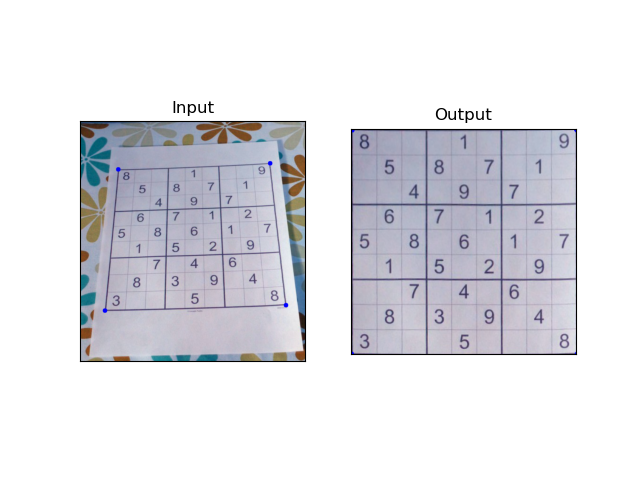
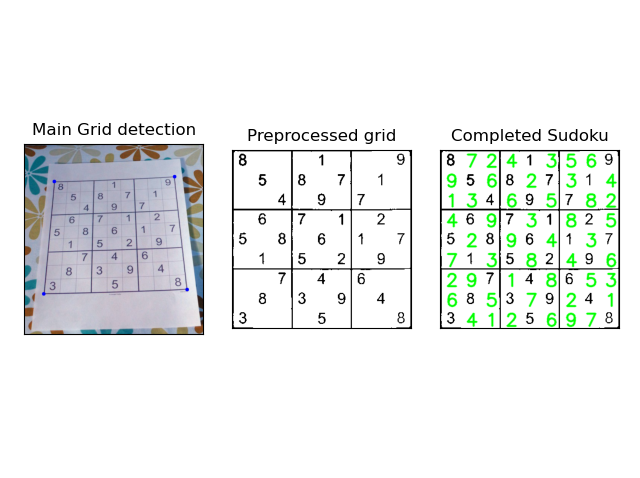
Add display solved sudoku picture

diff --git a/lib/launcher.py b/lib/launcher.py
@@ -8,17 +8,19 @@ import matplotlib.pyplot as plt
 import cv2 as cv
 
 from analyzer import picture_processing
-from solver import print_board, sudoku_solver
+from solver import display_solved_picture
 from predict import predict_digit, load_checkpoint
 from train import Net
 
 
 def solver(path, debug=False):
     IMG = cv.imread(path)
-    SQUARES = picture_processing(IMG, plot=debug)
+    SQUARES, PIC_PP, IMG = picture_processing(IMG, plot=debug)
     MODEL = load_checkpoint('../results/model.pth')
     digits = [predict_digit(el, MODEL) for el in SQUARES]
-
+    board = np.resize(np.array(digits), (9, 9))
+    filled_sudoku = display_solved_picture(PIC_PP, board)
+    
     if debug:
         fig = plt.figure(figsize=(13, 13))
         ax = []
@@ -28,10 +30,17 @@ def solver(path, debug=False):
             plt.imshow(SQUARES[i], alpha=0.25)
             plt.axis('off')
         plt.show()
-
-    board = np.resize(np.array(digits), (9, 9))
-    print_board(board)
-    print_board(sudoku_solver(board))
+        
+        plt.subplot(131), plt.imshow(IMG), plt.title('Main Grid detection')
+        plt.xticks([]), plt.yticks([])
+        plt.subplot(132), plt.imshow(PIC_PP, cmap='gray'), plt.title('Preprocessed grid')
+        plt.xticks([]), plt.yticks([])
+        plt.subplot(133), plt.imshow(filled_sudoku), plt.title('Completed Sudoku')
+        plt.xticks([]), plt.yticks([])
+        plt.show()
+        
+    plt.imshow(filled_sudoku)
+    plt.show()    
 
 
 if __name__ == "__main__":

diff --git a/lib/solver.py b/lib/solver.py
@@ -1,7 +1,10 @@
 # -*- coding: utf-8 -*-
 """Contains all the functions related to solving a sudoku"""
 
+import cv2 as cv
 import numpy as np
+
+FONT = cv.FONT_HERSHEY_SIMPLEX
 
 def find_empty(board):
     """Find and return the position of first empty value in board"""
@@ -19,7 +22,6 @@ def solve_step(board):
     lig, col = miss
     for i in range(1, 10):
         if is_valid(board, i, (lig, col)):
-
             board[lig, col] = i
             if solve_step(board): #Recursive call
                 return True
@@ -56,8 +58,23 @@ def print_board(board):
 
 def sudoku_solver(grid):
     """Function that solves the grid and returns it"""
-    if solve_step(grid):
-        print('-'*19)
-    else:
+    if not solve_step(grid):
         print("No solution exists")
+        return None
     return grid
+
+
+def display_solved_picture(picture, board):
+    """Fills the empty sudoku picture"""
+    init_board = board.copy()
+    solved_board = sudoku_solver(board)
+    backtorgb = cv.cvtColor(picture, cv.COLOR_GRAY2RGB)
+    if solved_board is not None:
+        for i in range(9):
+            for j in range(9):
+                x = 34*j + 10
+                y = 34*i + 30
+                if init_board[i, j] == 0: #Add the number only is initially missing
+                    cv.putText(backtorgb, str(solved_board[i, j]), (x, y),
+                               FONT, 1, (0,255,0), 2, cv.LINE_AA)
+    return backtorgb

diff --git a/lib/analyzer.py b/lib/analyzer.py
@@ -63,13 +63,8 @@ def picture_processing(img, plot=False):
                        [WIDTH_WRAP, WIDTH_WRAP]])
     transfo = cv.getPerspectiveTransform(pts1, pts2)
     dst = cv.warpPerspective(img, transfo, (WIDTH_WRAP, WIDTH_WRAP))
-
-    if plot:
-        plt.subplot(121), plt.imshow(img), plt.title('Input')
-        plt.xticks([]), plt.yticks([])
-        plt.subplot(122), plt.imshow(dst), plt.title('Output')
-        plt.xticks([]), plt.yticks([])
-        plt.show()
+    dst = cv.cvtColor(dst, cv.COLOR_BGR2GRAY)
+    dst = cv.threshold(dst, 140, 255, cv.THRESH_BINARY)[1]
 
     #Cut the picture in 81 squares
     side = WIDTH_WRAP//9
@@ -78,7 +73,5 @@ def picture_processing(img, plot=False):
         for j in range(9):
             pic = dst[i*side + MARGIN: (i + 1) *side - MARGIN,
                       j*side + MARGIN: (j + 1) *side - MARGIN]
-            binary_pic = cv.cvtColor(pic, cv.COLOR_BGR2GRAY)
-            binary_pic = cv.threshold(binary_pic, 140, 255, cv.THRESH_BINARY)[1]
-            squares.append(~binary_pic/255)
-    return squares
+            squares.append(~pic/255)
+    return squares, dst, img
